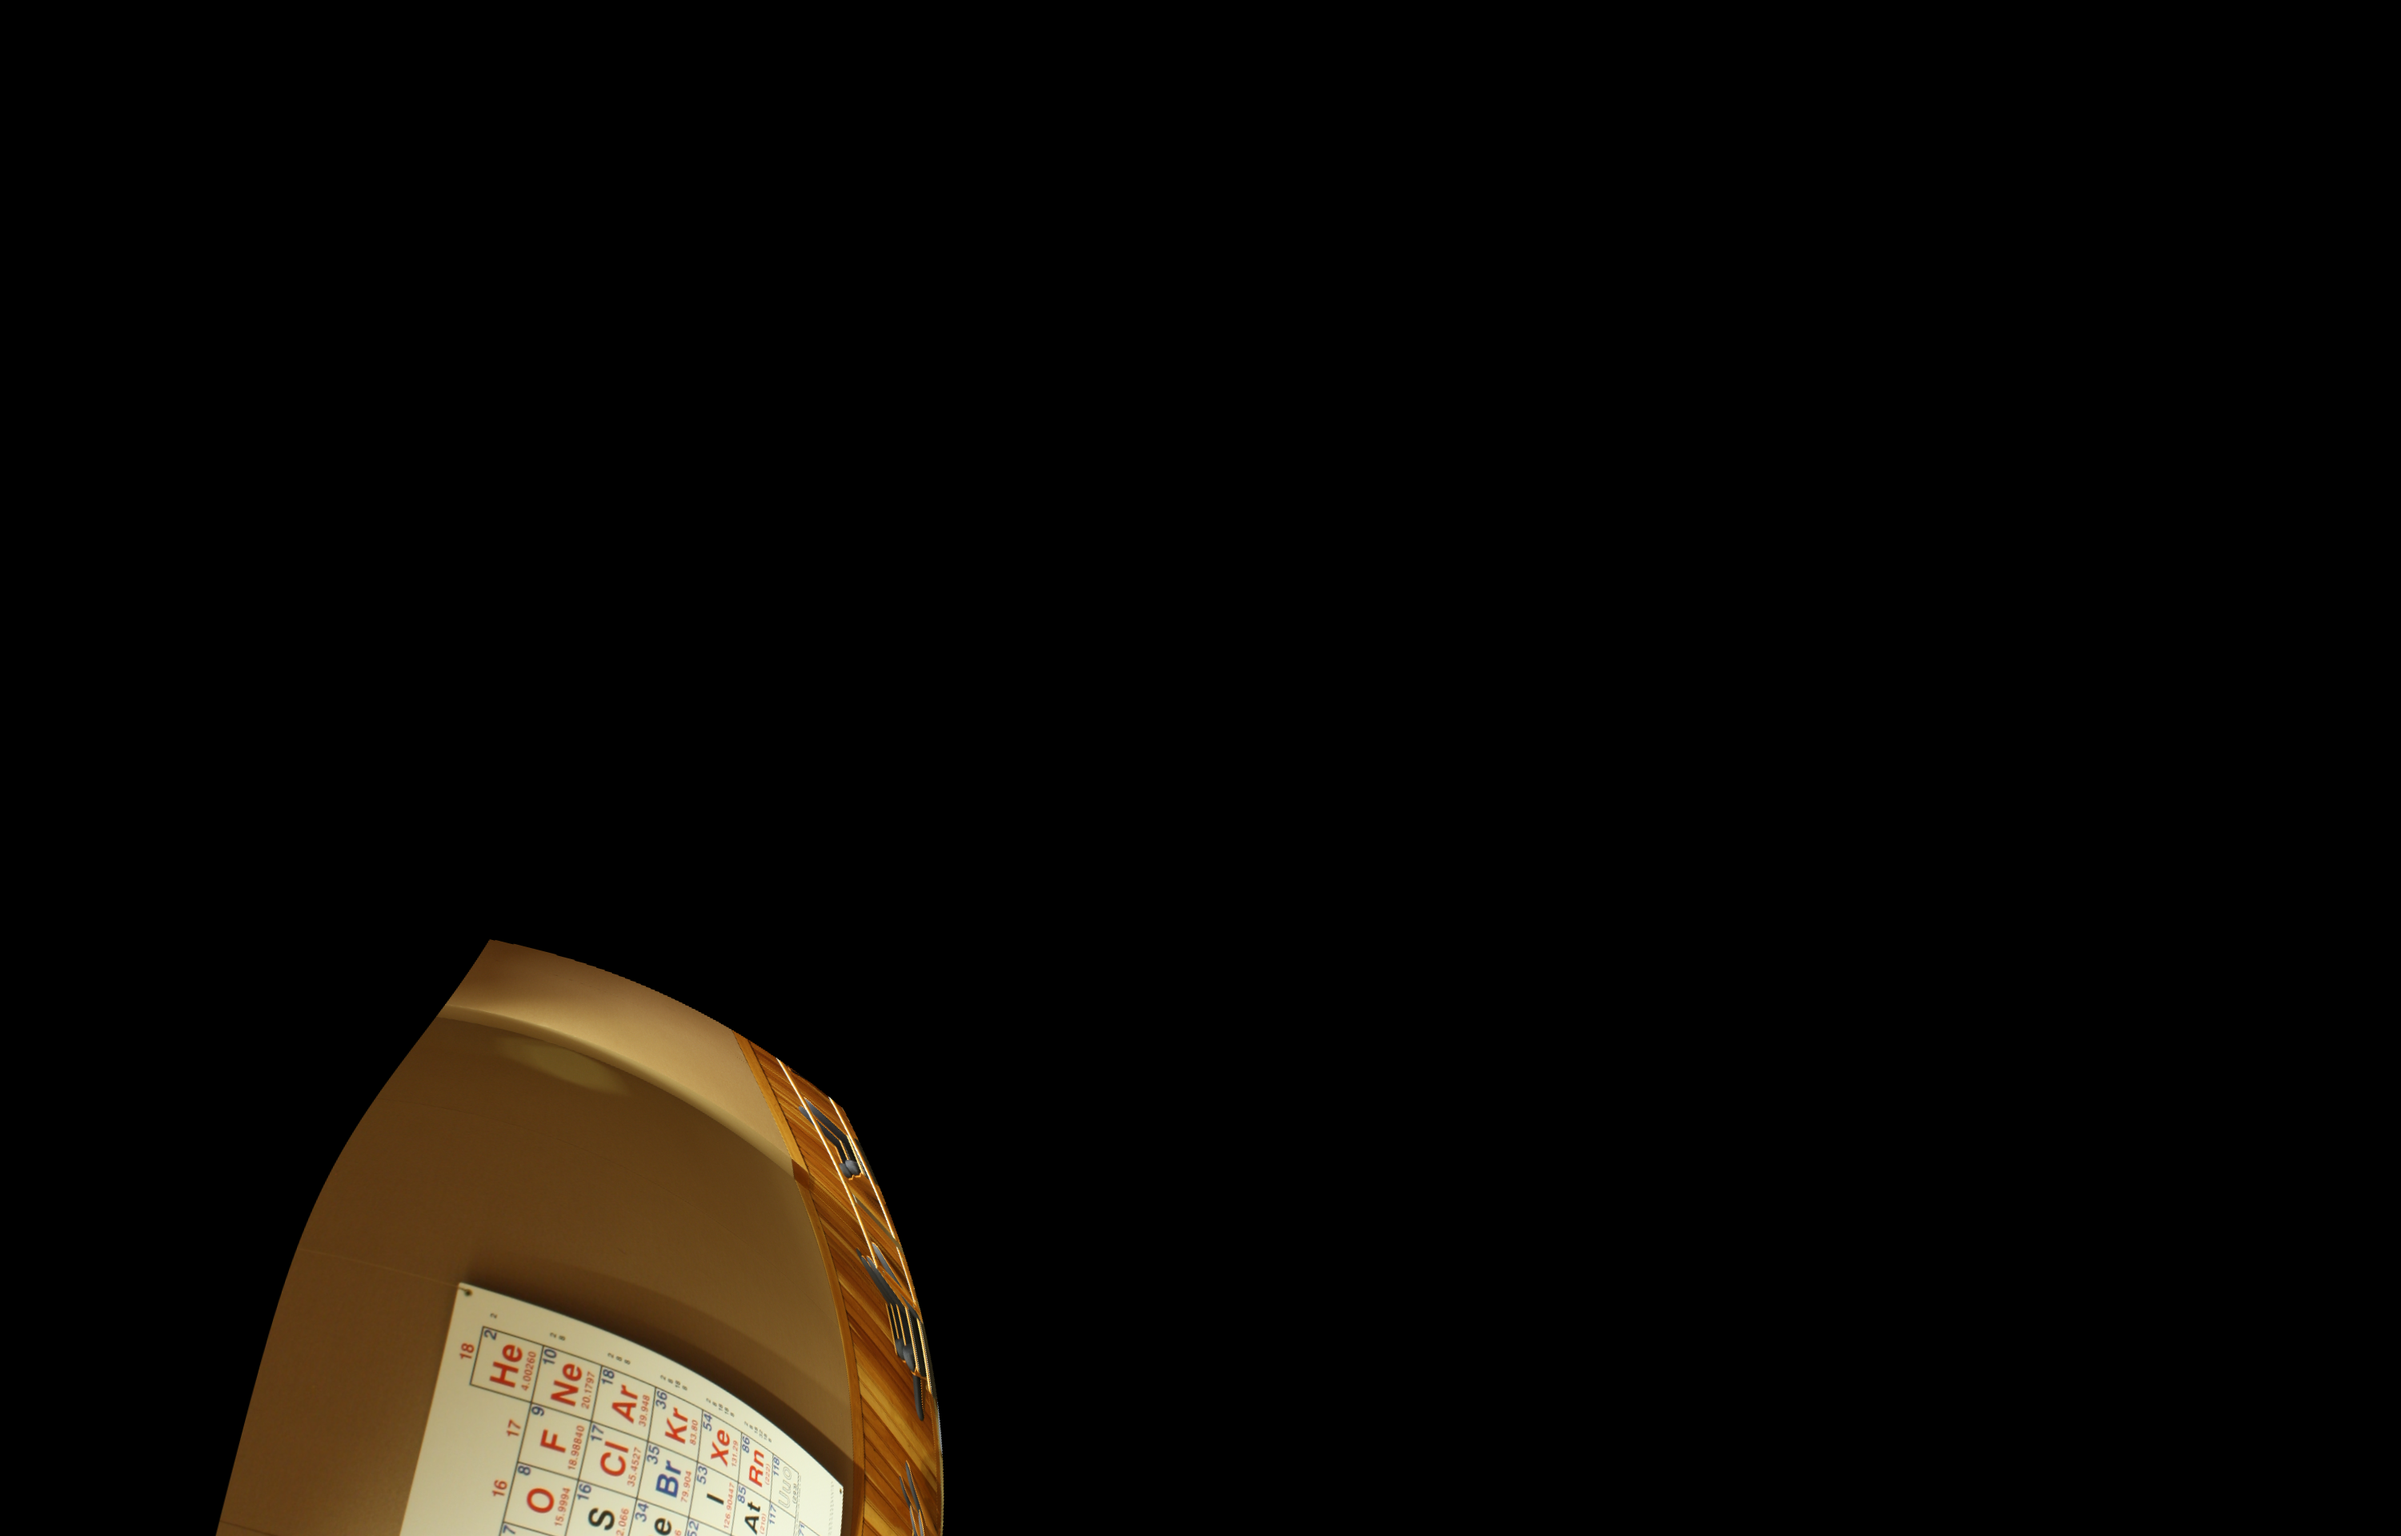
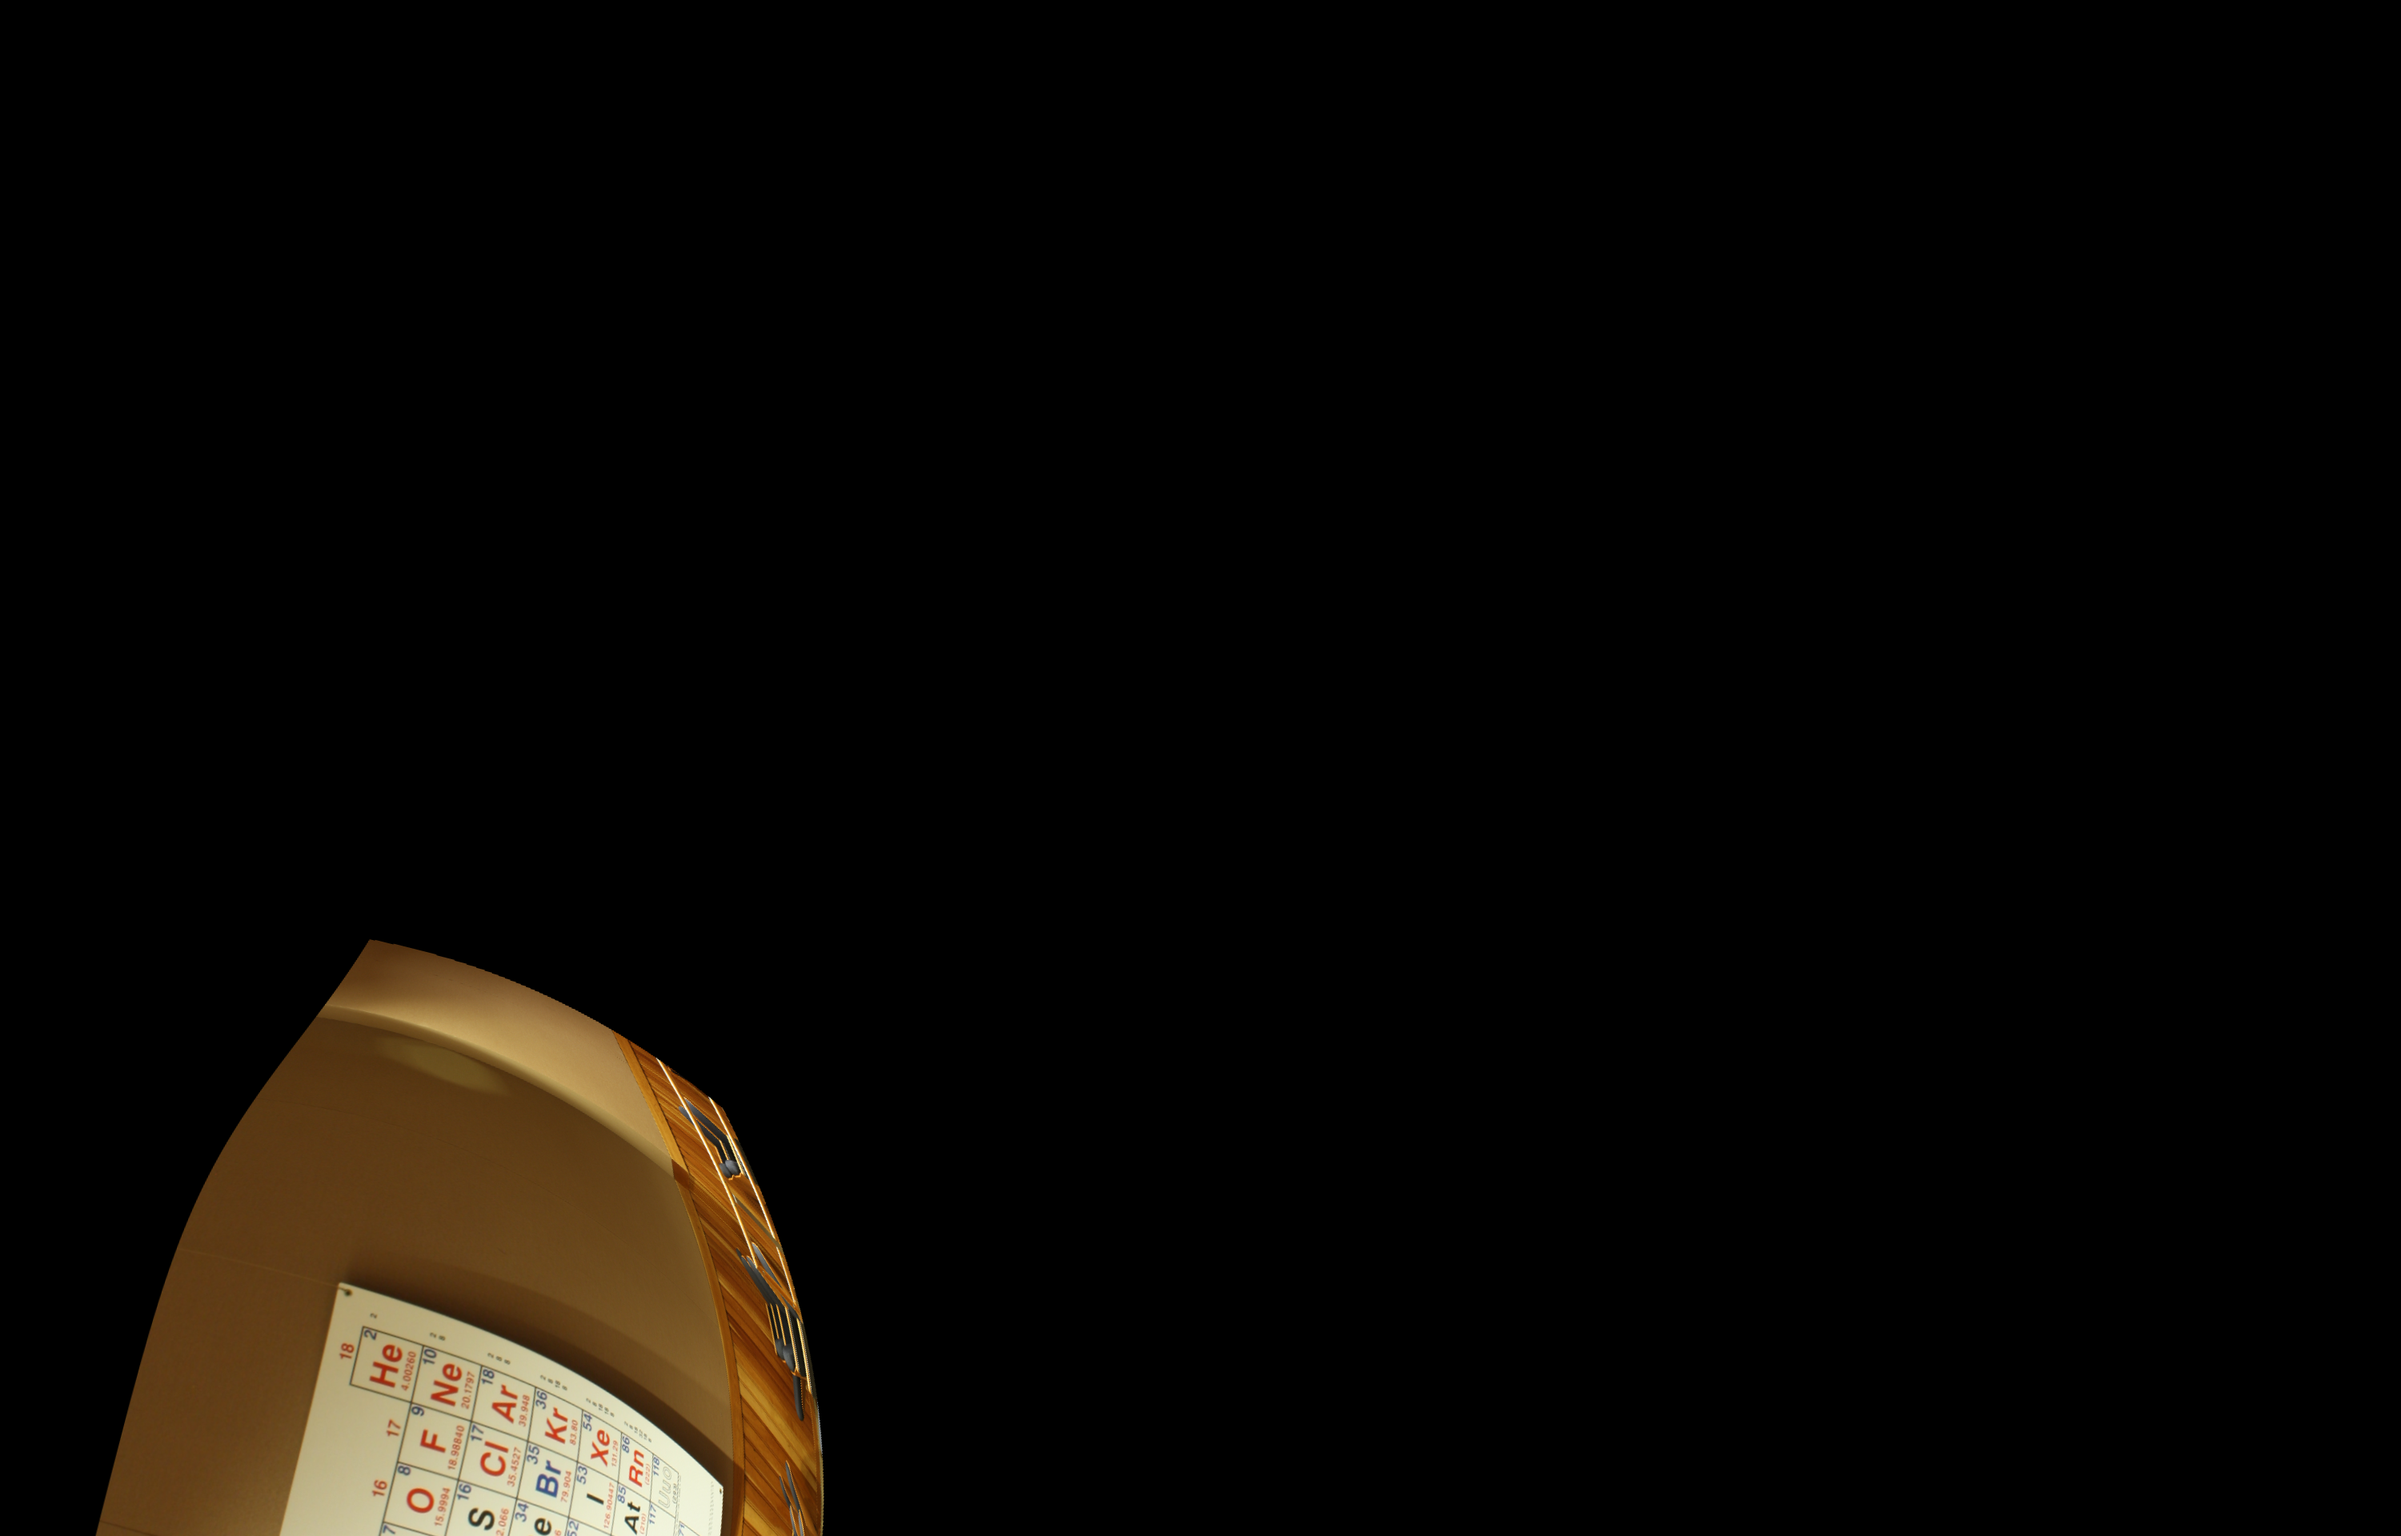
epi

Changed region(s): [[0.031, 0.5938, 0.403, 1.0]]

diff --git a/EpipolarStereopsis.py b/EpipolarStereopsis.py
@@ -146,15 +146,16 @@ newPts_right = newPts_right.reshape(-1, 1, 2)
 lines1 = cv2.computeCorrespondEpilines(newPts_right.reshape(-1, 1, 2), 2, F)
 lines1 = lines1.reshape(-1, 3)
 img5, img6 = drawlines(img_left, img_right, lines1, newPts_left, newPts_right)
+
 # Find epilines corresponding to points in left image (first image) and
 # drawing its lines on right image
 lines2 = cv2.computeCorrespondEpilines(newPts_left.reshape(-1, 1, 2), 1, F)
 lines2 = lines2.reshape(-1, 3)
 img3, img4 = drawlines(img_left, img_right, lines2, newPts_left, newPts_right)
-# cv2.imshow('Left Image w/ epilines', img5)
-# cv2.imshow('Right Image w/ epilines', img3)
-# if cv2.waitKey(0) & 0xff == 27:
-#     cv2.destroyAllWindows()
+cv2.imshow('Left Image w/ epilines', img5)
+cv2.imshow('Right Image w/ epilines', img3)
+if cv2.waitKey(0) & 0xff == 27:
+    cv2.destroyAllWindows()
 
 # Decompose essential matrix into translational and rotational vectors
 ret, rot, trans, mask, wPts = cv2.recoverPose(E, newPts_left, newPts_right, newK, distanceThresh=1000)
@@ -174,7 +175,7 @@ invTrans = -np.matmul(invRot, trans)
 # eRmat = np.skew(eR)
 # PR_alt = np.matmul(newK, np.append((np.matmul(eRmat, F) + np.matmul(eR, np.transpose(eR))), eR, axis=1))
 
-# Compute rotation vector from matrix
+# Compute rotation vector from rotation matrix
 rotVec = cv2.Rodrigues(rot)
 
 # Project triangulated world points onto the left image plane
@@ -201,6 +202,10 @@ pt_error_right_y= np.sum(np.abs(dRy))/nPts
 
 # Compute homography matrix
 ret, HL, HR = cv2.stereoRectifyUncalibrated(newPts_left, newPts_right, F, (C, R), threshold=1)
+# HL /= HL[2,2]
+# HR /= HR[2,2]
+# HL[0,2]-= 150
+# HR[0,2] -= 150
 
 # Rectify images
 img_left_rect = cv2.warpPerspective(img_left_undistorted, HL, (C, R))
@@ -213,7 +218,6 @@ img_right_rect = cv2.warpPerspective(img_right_undistorted, HR, (C, R))
 #     cv2.destroyAllWindows()
 cv2.imwrite('./images/rect_left.png', img_left_rect)
 cv2.imwrite('./images/rect_right.png', img_right_rect)
-
 
 gray_left_rect = cv2.cvtColor(img_left_rect, cv2.COLOR_BGR2GRAY)
 gray_right_rect = cv2.cvtColor(img_right_rect, cv2.COLOR_BGR2GRAY)
@@ -229,80 +233,3 @@ disparity = cv2.normalize(src=disparity, dst=disparity, beta=-16, alpha=255, nor
 cv2.imshow('Rectified Right Image', disparity)
 if cv2.waitKey(0) & 0xff == 27:
     cv2.destroyAllWindows()
-
-# Class Notes 4/1
-''' Use cv.undistort to undistort image DONE
-    Use cv.undistortPointsIter(kp, newK, dist, R=None,  to undistort keypoints (input keypoints and camera matrix stuff)
-    Do this since you need to pass undistroted points into fundamental matrix method DONE
-    then use cv.findFundamentalMatrix
-        RANSAC as a procedure: use a very high confidence level (~.99) and low re=projection threshold (~0.5) DONE 
-    Comes back with F, mask. mask are the inlier points, so you want to save those as separate variables DONE
-    Then compute the essential matrix by premultiplying by camera matrix on both sides (look at slides) DONE
-    Decompose essential matrix into translational and rotational vectors DONE
-    Make a unit vector out of the translation vector if it isn't already (divide by L2 norm) DONE 
-    
-    
-    ///
-    Then multiply it by a number which is roughly the same as the distance between the two pictures taken 
-    Use triangulation on inlier points to make 3d points (opencv func?)
-    Then take 3d vectors and "run them through" left and right camera matrices
-    Then compute left and right homography matrices (opencv funcs)
-        ret, HL, HR = cv.stereoRectifyUncalibrated
-    HL /= HL[2,2] DONT NEED THESE FOUR LINES
-    HR /= HR[2,2]
-    HL[0,2]-=150 # subtract # of pixels from third column to shift things over 
-    HR[0,2]-=150
-    save these images
-
-    rect_img_left = cv.warpPerspective(undist_img_left, HL, (C, R))
-
-    At this point, you should be able to go straight across images when viewing and have them both be aligned
-
-    Now do stereo matching
-    Block Matcher or Peter's program
-    http://timosam.com/python_opencv_depthimage
-        will need opencv_+contrib thingy
-        cv.ximgproc will execute even though it will say it doesn't know what it is
-
-    '''
-
-# # FROM CLASS
-#
-# newK, roi = cv2.getOptimalNewCameraMatrix(K, dist, {C, R}, 0, {C, R})
-#
-# # project points through inverse camera matrix and undistort them
-# cv2.undistortPointsIter(matched_kps_left, newK, dist,)
-#
-# F, mask = cv2.findFundamentalMat(undist_pts_left, undist_pts_right, cv2.FM_RANSAC, ransacReprojThreshold=0.5, confidence=)
-# np.savez('FMat.npz',F=F)
-#
-# in1_pts_left = matched_kps_left(mask.ravel()==1)
-# in1_pts_right = matched_kps_right(mask.ravel()==1)
-#
-# newPts_left, newPts_right = cv2.correctMatches(F, np.reshape(in1_pts_left, (1, nPts))
-#
-# # Find epilines corresponding to points in right image and drawing its lines on the second image
-# eLines_left = cv2.computeCorrespondEpilines(newPts_right, 2, F))
-# eLines_left = eLines_left.reshape()
-#
-# ret, HL, HR = cv2.stereoRectifyUncalibrated(newPts_left[:, :, 0:2], newPts_right[:, :, 0:2})
-# HL /= HL[2,2]
-# HR /= HR[2,2]
-# HL[0,2]-= 150
-# HR[0,2] -= 150
-#
-# rect_img_left = cv2.warpPerspective(undist_img_left, HL, (C, R))
-# rect_img_right = cv2.warpPerspective(undist_img_right, HR, (C, R))
-#
-# #Convert to grayscale
-#
-# #Now use StereoBM
-# stereoMatcher = cv2.StereoBM_create()
-# stereoMatcher.setMinDisparity(16)
-# stereoMatcher.setBlockSize(9)
-# disparity = stereoMatcher.compute(gray_left, gray_right)
-# disparity_norm = cv2.normalize(disparity, None, 255, 0,cv2.NORM_MINMAX, cv2.CV_8UC1)
-# plt.imshow(disparity,'gray')
-# plt.show()
-
-
